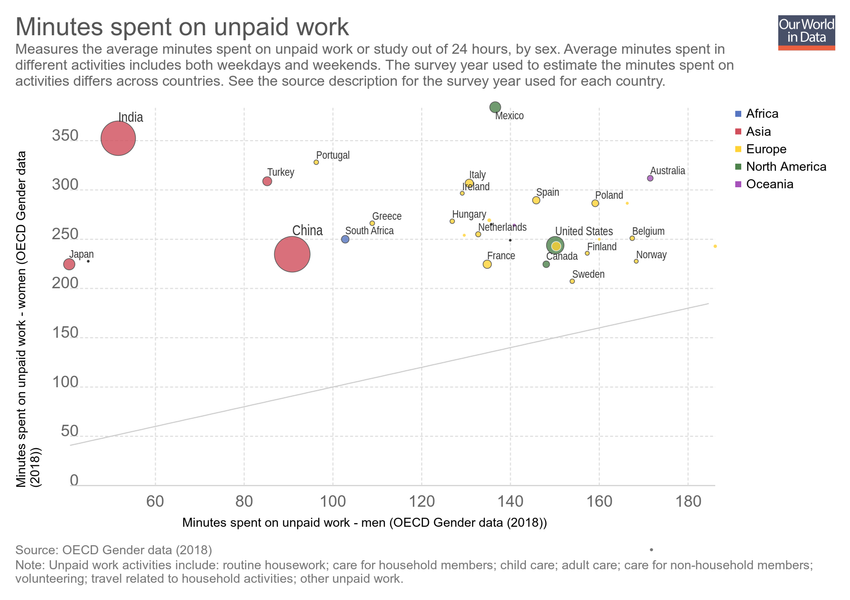
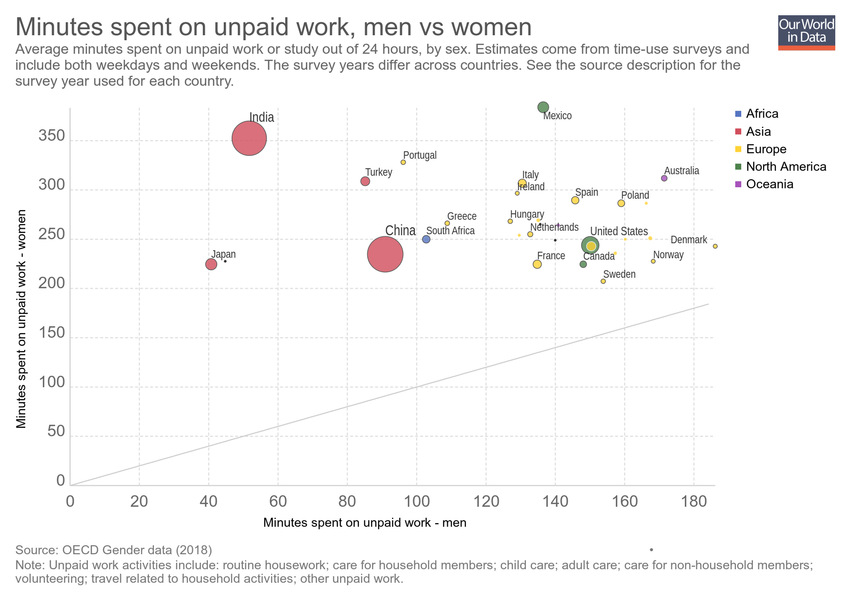
Updating chart minutes-spent-on-unpaid-work

diff --git a/grapher/minutes-spent-on-unpaid-work.html b/grapher/minutes-spent-on-unpaid-work.html
@@ -1,4 +1,4 @@
-<!doctype html><html><head><meta name="viewport" content="width=device-width, initial-scale=1" /><title>Minutes spent on unpaid work - Our World in Data</title><meta name="description" content="Measures the average minutes spent on unpaid work or study out of 24 hours, by sex. Average minutes spent in different activities includes both weekdays and weekends. The survey year used to estimate the minutes spent on activities differs across countries. See the source description for the survey year used for each country." /><link rel="canonical" href="https://ourworldindata.org/grapher/minutes-spent-on-unpaid-work" /><meta property="fb:app_id" content="1149943818390250" /><meta property="og:url" content="https://ourworldindata.org/grapher/minutes-spent-on-unpaid-work" /><meta property="og:title" content="Minutes spent on unpaid work" /><meta property="og:description" content="Measures the average minutes spent on unpaid work or study out of 24 hours, by sex. Average minutes spent in different activities includes both weekdays and weekends. The survey year used to estimate the minutes spent on activities differs across countries. See the source description for the survey year used for each country." /><meta property="og:image" content="https://ourworldindata.org/grapher/exports/minutes-spent-on-unpaid-work.png?v=3" /><meta property="og:image:width" content="850" /><meta property="og:image:height" content="600" /><meta property="og:site_name" content="Our World in Data" /><meta name="twitter:card" content="summary_large_image" /><meta name="twitter:site" content="@OurWorldInData" /><meta name="twitter:creator" content="@OurWorldInData" /><meta name="twitter:title" content="Minutes spent on unpaid work" /><meta name="twitter:description" content="Measures the average minutes spent on unpaid work or study out of 24 hours, by sex. Average minutes spent in different activities includes both weekdays and weekends. The survey year used to estimate the minutes spent on activities differs across countries. See the source description for the survey year used for each country." /><meta name="twitter:image" content="https://ourworldindata.org/grapher/exports/minutes-spent-on-unpaid-work.png?v=3" /><style>
+<!doctype html><html><head><meta name="viewport" content="width=device-width, initial-scale=1" /><title>Minutes spent on unpaid work, men vs women - Our World in Data</title><meta name="description" content="Average minutes spent on unpaid work or study out of 24 hours, by sex. Estimates come from time-use surveys and include both weekdays and weekends. The survey years differ across countries. See the source description for the survey year used for each country." /><link rel="canonical" href="https://ourworldindata.org/grapher/minutes-spent-on-unpaid-work" /><meta property="fb:app_id" content="1149943818390250" /><meta property="og:url" content="https://ourworldindata.org/grapher/minutes-spent-on-unpaid-work" /><meta property="og:title" content="Minutes spent on unpaid work, men vs women" /><meta property="og:description" content="Average minutes spent on unpaid work or study out of 24 hours, by sex. Estimates come from time-use surveys and include both weekdays and weekends. The survey years differ across countries. See the source description for the survey year used for each country." /><meta property="og:image" content="https://ourworldindata.org/grapher/exports/minutes-spent-on-unpaid-work.png?v=5" /><meta property="og:image:width" content="850" /><meta property="og:image:height" content="600" /><meta property="og:site_name" content="Our World in Data" /><meta name="twitter:card" content="summary_large_image" /><meta name="twitter:site" content="@OurWorldInData" /><meta name="twitter:creator" content="@OurWorldInData" /><meta name="twitter:title" content="Minutes spent on unpaid work, men vs women" /><meta name="twitter:description" content="Average minutes spent on unpaid work or study out of 24 hours, by sex. Estimates come from time-use surveys and include both weekdays and weekends. The survey years differ across countries. See the source description for the survey year used for each country." /><meta name="twitter:image" content="https://ourworldindata.org/grapher/exports/minutes-spent-on-unpaid-work.png?v=5" /><style>
         html, body {
             height: 100%;
             margin: 0;
@@ -20,8 +20,8 @@
         }
     </style><noscript><style>
                     figure { display: none !important; }
-                </style></noscript><link rel="stylesheet" href="https://ourworldindata.org/grapher/assets/commons.bundle.dcbbe53805c487d5e57617b10ac73a8a.css" /><link rel="preload" href="/grapher/data/variables/96618+96613+72+123.json?v=3" as="fetch" crossorigin /></head><body class="singleChart"><figure data-grapher-src="/grapher/minutes-spent-on-unpaid-work"></figure><noscript id="fallback"><img src="/grapher/exports/minutes-spent-on-unpaid-work.svg" /><p>Interactive visualization requires JavaScript</p></noscript><script src="https://cdn.polyfill.io/v2/polyfill.min.js?features=es6,fetch"></script><script src="https://ourworldindata.org/grapher/assets/commons.bundle.43d139222ef978d52c09.js"></script><script src="https://ourworldindata.org/grapher/assets/charts.bundle.43d139222ef978d52c09.js"></script><script>
-        var jsonConfig = {"id":2539,"map":{"projection":"World","colorSchemeLabels":[],"colorSchemeValues":[],"colorSchemeMinValue":0,"customNumericColors":[],"customCategoryColors":{},"customCategoryLabels":{},"customHiddenCategories":{}},"tab":"chart","note":"Unpaid work activities include: routine housework; care for household members; child care; adult care; care for non-household members; volunteering; travel related to household activities; other unpaid work.","slug":"minutes-spent-on-unpaid-work","type":"ScatterPlot","title":"Minutes spent on unpaid work","xAxis":{"scaleType":"linear"},"yAxis":{"min":0,"scaleType":"linear"},"version":3,"subtitle":"Measures the average minutes spent on unpaid work or study out of 24 hours, by sex. Average minutes spent in different activities includes both weekdays and weekends. The survey year used to estimate the minutes spent on activities differs across countries. See the source description for the survey year used for each country.","hasMapTab":false,"stackMode":"absolute","dimensions":[{"display":{},"property":"y","variableId":96618},{"display":{},"property":"x","variableId":96613},{"display":{},"property":"size","variableId":72},{"display":{},"property":"color","variableId":123}],"hasChartTab":true,"isPublished":true,"selectedData":[],"comparisonLine":{},"hideTitleAnnotation":true};
+                </style></noscript><link rel="stylesheet" href="https://ourworldindata.org/grapher/assets/commons.bundle.dcbbe53805c487d5e57617b10ac73a8a.css" /><link rel="preload" href="/grapher/data/variables/96618+96613+72+123.json?v=5" as="fetch" crossorigin /></head><body class="singleChart"><figure data-grapher-src="/grapher/minutes-spent-on-unpaid-work"></figure><noscript id="fallback"><img src="/grapher/exports/minutes-spent-on-unpaid-work.svg" /><p>Interactive visualization requires JavaScript</p></noscript><script src="https://cdn.polyfill.io/v2/polyfill.min.js?features=es6,fetch"></script><script src="https://ourworldindata.org/grapher/assets/commons.bundle.43d139222ef978d52c09.js"></script><script src="https://ourworldindata.org/grapher/assets/charts.bundle.43d139222ef978d52c09.js"></script><script>
+        var jsonConfig = {"id":2539,"map":{"projection":"World","colorSchemeLabels":[],"colorSchemeValues":[],"colorSchemeMinValue":0,"customNumericColors":[],"customCategoryColors":{},"customCategoryLabels":{},"customHiddenCategories":{}},"tab":"chart","note":"Unpaid work activities include: routine housework; care for household members; child care; adult care; care for non-household members; volunteering; travel related to household activities; other unpaid work.","slug":"minutes-spent-on-unpaid-work","type":"ScatterPlot","title":"Minutes spent on unpaid work, men vs women","xAxis":{"min":0,"scaleType":"linear"},"yAxis":{"min":0,"scaleType":"linear"},"version":5,"subtitle":"Average minutes spent on unpaid work or study out of 24 hours, by sex. Estimates come from time-use surveys and include both weekdays and weekends. The survey years differ across countries. See the source description for the survey year used for each country.","hasMapTab":false,"stackMode":"absolute","dimensions":[{"display":{"name":"Minutes spent on unpaid work - women"},"property":"y","variableId":96618},{"display":{"name":"Minutes spent on unpaid work - men"},"property":"x","variableId":96613},{"display":{},"property":"size","variableId":72},{"display":{},"property":"color","variableId":123}],"hasChartTab":true,"isPublished":true,"selectedData":[],"comparisonLine":{},"hideTitleAnnotation":true};
         var figure = document.getElementsByTagName("figure")[0];
         try {
             window.App = {};

diff --git a/grapher/minutes-spent-on-leisure.html b/grapher/minutes-spent-on-leisure.html
@@ -1,4 +1,4 @@
-<!doctype html><html><head><meta name="viewport" content="width=device-width, initial-scale=1" /><title>Minutes spent on leisure, men vs women - Our World in Data</title><meta name="description" content="Average minutes spent on leisure activities out of 24 hours, by sex. Estimates come from time-use surveys and include both weekdays and weekends. The survey years differ across countries. See the source description for the survey year used for each country." /><link rel="canonical" href="https://ourworldindata.org/grapher/minutes-spent-on-leisure" /><meta property="fb:app_id" content="1149943818390250" /><meta property="og:url" content="https://ourworldindata.org/grapher/minutes-spent-on-leisure" /><meta property="og:title" content="Minutes spent on leisure, men vs women" /><meta property="og:description" content="Average minutes spent on leisure activities out of 24 hours, by sex. Estimates come from time-use surveys and include both weekdays and weekends. The survey years differ across countries. See the source description for the survey year used for each country." /><meta property="og:image" content="https://ourworldindata.org/grapher/exports/minutes-spent-on-leisure.png?v=4" /><meta property="og:image:width" content="850" /><meta property="og:image:height" content="600" /><meta property="og:site_name" content="Our World in Data" /><meta name="twitter:card" content="summary_large_image" /><meta name="twitter:site" content="@OurWorldInData" /><meta name="twitter:creator" content="@OurWorldInData" /><meta name="twitter:title" content="Minutes spent on leisure, men vs women" /><meta name="twitter:description" content="Average minutes spent on leisure activities out of 24 hours, by sex. Estimates come from time-use surveys and include both weekdays and weekends. The survey years differ across countries. See the source description for the survey year used for each country." /><meta name="twitter:image" content="https://ourworldindata.org/grapher/exports/minutes-spent-on-leisure.png?v=4" /><style>
+<!doctype html><html><head><meta name="viewport" content="width=device-width, initial-scale=1" /><title>Minutes spent on leisure, men vs women - Our World in Data</title><meta name="description" content="Average minutes spent on leisure activities out of 24 hours, by sex. Estimates come from time-use surveys and include both weekdays and weekends. The survey years differ across countries. See the source description for the survey year used for each country." /><link rel="canonical" href="https://ourworldindata.org/grapher/minutes-spent-on-leisure" /><meta property="fb:app_id" content="1149943818390250" /><meta property="og:url" content="https://ourworldindata.org/grapher/minutes-spent-on-leisure" /><meta property="og:title" content="Minutes spent on leisure, men vs women" /><meta property="og:description" content="Average minutes spent on leisure activities out of 24 hours, by sex. Estimates come from time-use surveys and include both weekdays and weekends. The survey years differ across countries. See the source description for the survey year used for each country." /><meta property="og:image" content="https://ourworldindata.org/grapher/exports/minutes-spent-on-leisure.png?v=5" /><meta property="og:image:width" content="850" /><meta property="og:image:height" content="600" /><meta property="og:site_name" content="Our World in Data" /><meta name="twitter:card" content="summary_large_image" /><meta name="twitter:site" content="@OurWorldInData" /><meta name="twitter:creator" content="@OurWorldInData" /><meta name="twitter:title" content="Minutes spent on leisure, men vs women" /><meta name="twitter:description" content="Average minutes spent on leisure activities out of 24 hours, by sex. Estimates come from time-use surveys and include both weekdays and weekends. The survey years differ across countries. See the source description for the survey year used for each country." /><meta name="twitter:image" content="https://ourworldindata.org/grapher/exports/minutes-spent-on-leisure.png?v=5" /><style>
         html, body {
             height: 100%;
             margin: 0;
@@ -20,8 +20,8 @@
         }
     </style><noscript><style>
                     figure { display: none !important; }
-                </style></noscript><link rel="stylesheet" href="https://ourworldindata.org/grapher/assets/commons.bundle.dcbbe53805c487d5e57617b10ac73a8a.css" /><link rel="preload" href="/grapher/data/variables/96620+96615+72+123.json?v=4" as="fetch" crossorigin /></head><body class="singleChart"><figure data-grapher-src="/grapher/minutes-spent-on-leisure"></figure><noscript id="fallback"><img src="/grapher/exports/minutes-spent-on-leisure.svg" /><p>Interactive visualization requires JavaScript</p></noscript><script src="https://cdn.polyfill.io/v2/polyfill.min.js?features=es6,fetch"></script><script src="https://ourworldindata.org/grapher/assets/commons.bundle.43d139222ef978d52c09.js"></script><script src="https://ourworldindata.org/grapher/assets/charts.bundle.43d139222ef978d52c09.js"></script><script>
-        var jsonConfig = {"id":2541,"map":{"projection":"World","colorSchemeLabels":[],"colorSchemeValues":[],"colorSchemeMinValue":0,"customNumericColors":[],"customCategoryColors":{},"customCategoryLabels":{},"customHiddenCategories":{}},"tab":"chart","note":"Leisure activities include: sports; participating/attending events; visiting or entertaining friends; TV or radio at home; other leisure activities.","slug":"minutes-spent-on-leisure","type":"ScatterPlot","title":"Minutes spent on leisure, men vs women","xAxis":{"scaleType":"linear"},"yAxis":{"min":0,"scaleType":"linear"},"version":4,"subtitle":"Average minutes spent on leisure activities out of 24 hours, by sex. Estimates come from time-use surveys and include both weekdays and weekends. The survey years differ across countries. See the source description for the survey year used for each country.","hasMapTab":false,"stackMode":"absolute","dimensions":[{"display":{},"property":"y","variableId":96620},{"display":{},"property":"x","variableId":96615},{"display":{},"property":"size","variableId":72},{"display":{},"property":"color","variableId":123}],"hasChartTab":true,"isPublished":true,"selectedData":[],"comparisonLine":{},"hideTitleAnnotation":true};
+                </style></noscript><link rel="stylesheet" href="https://ourworldindata.org/grapher/assets/commons.bundle.dcbbe53805c487d5e57617b10ac73a8a.css" /><link rel="preload" href="/grapher/data/variables/96620+96615+72+123.json?v=5" as="fetch" crossorigin /></head><body class="singleChart"><figure data-grapher-src="/grapher/minutes-spent-on-leisure"></figure><noscript id="fallback"><img src="/grapher/exports/minutes-spent-on-leisure.svg" /><p>Interactive visualization requires JavaScript</p></noscript><script src="https://cdn.polyfill.io/v2/polyfill.min.js?features=es6,fetch"></script><script src="https://ourworldindata.org/grapher/assets/commons.bundle.43d139222ef978d52c09.js"></script><script src="https://ourworldindata.org/grapher/assets/charts.bundle.43d139222ef978d52c09.js"></script><script>
+        var jsonConfig = {"id":2541,"map":{"projection":"World","colorSchemeLabels":[],"colorSchemeValues":[],"colorSchemeMinValue":0,"customNumericColors":[],"customCategoryColors":{},"customCategoryLabels":{},"customHiddenCategories":{}},"tab":"chart","note":"Leisure activities include: sports; participating/attending events; visiting or entertaining friends; TV or radio at home; other leisure activities.","slug":"minutes-spent-on-leisure","type":"ScatterPlot","title":"Minutes spent on leisure, men vs women","xAxis":{"min":0,"scaleType":"linear"},"yAxis":{"min":0,"scaleType":"linear"},"version":5,"subtitle":"Average minutes spent on leisure activities out of 24 hours, by sex. Estimates come from time-use surveys and include both weekdays and weekends. The survey years differ across countries. See the source description for the survey year used for each country.","hasMapTab":false,"stackMode":"absolute","dimensions":[{"display":{},"property":"y","variableId":96620},{"display":{},"property":"x","variableId":96615},{"display":{},"property":"size","variableId":72},{"display":{},"property":"color","variableId":123}],"hasChartTab":true,"isPublished":true,"selectedData":[],"comparisonLine":{},"hideTitleAnnotation":true};
         var figure = document.getElementsByTagName("figure")[0];
         try {
             window.App = {};
